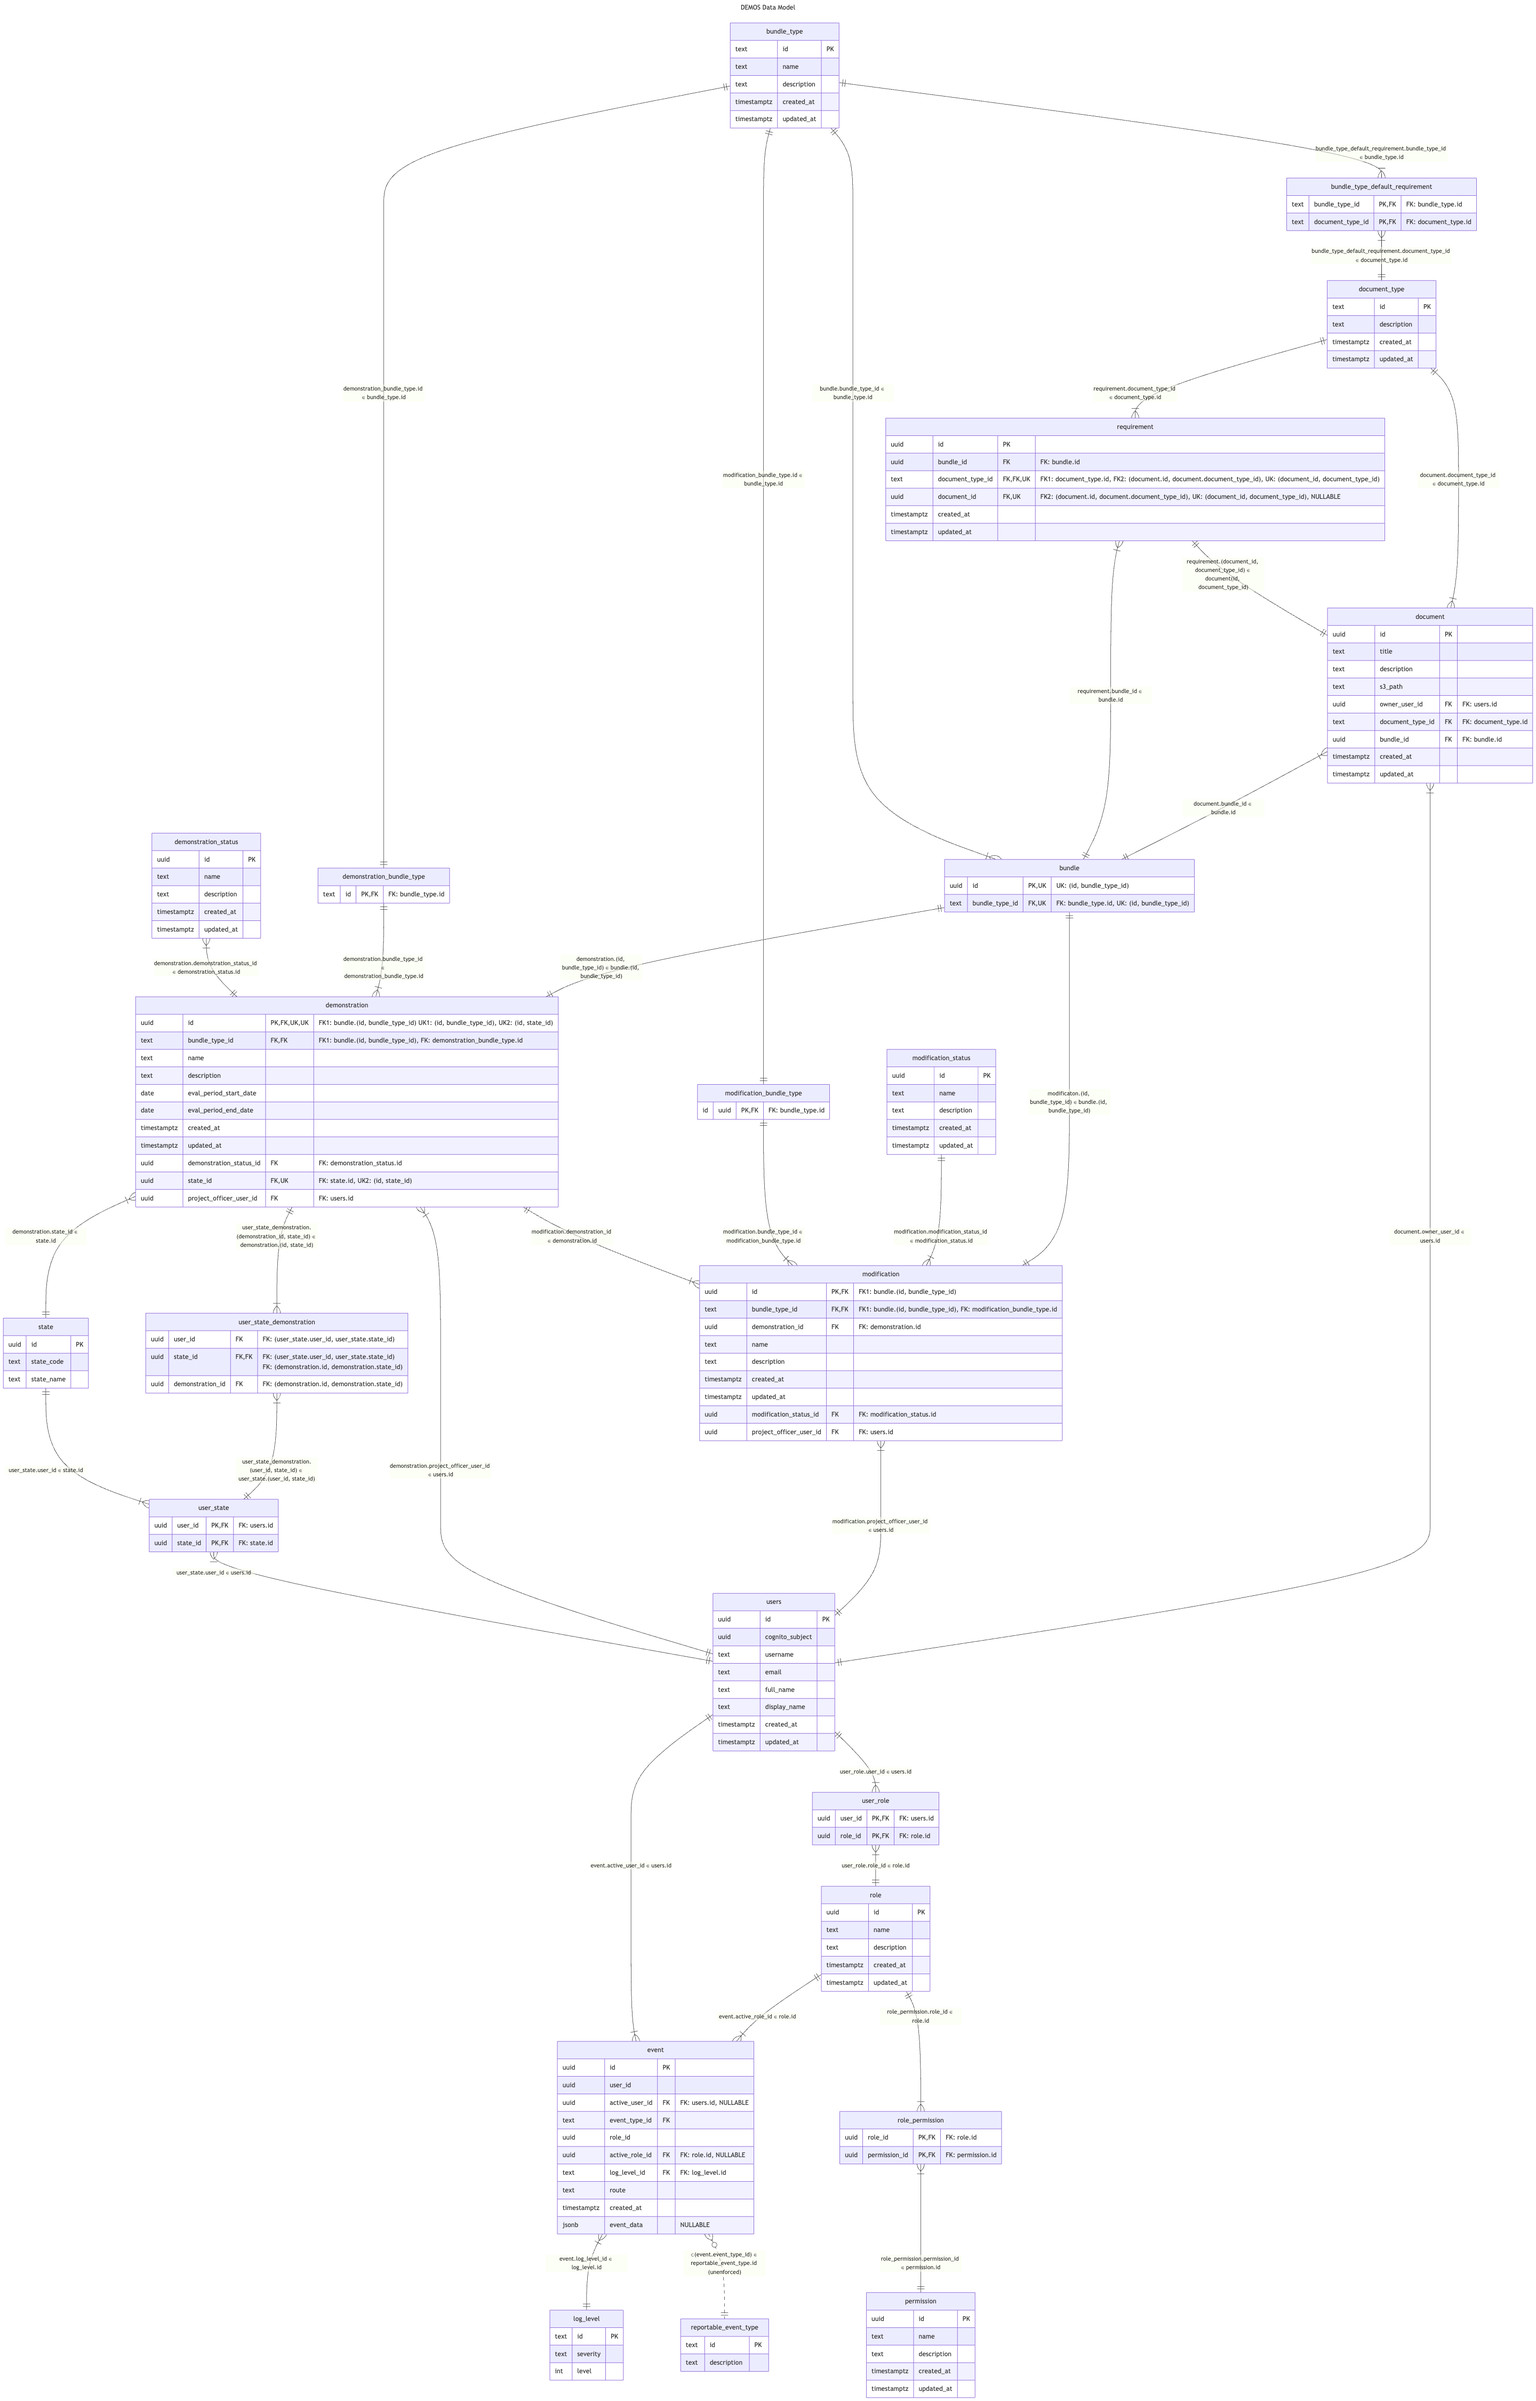
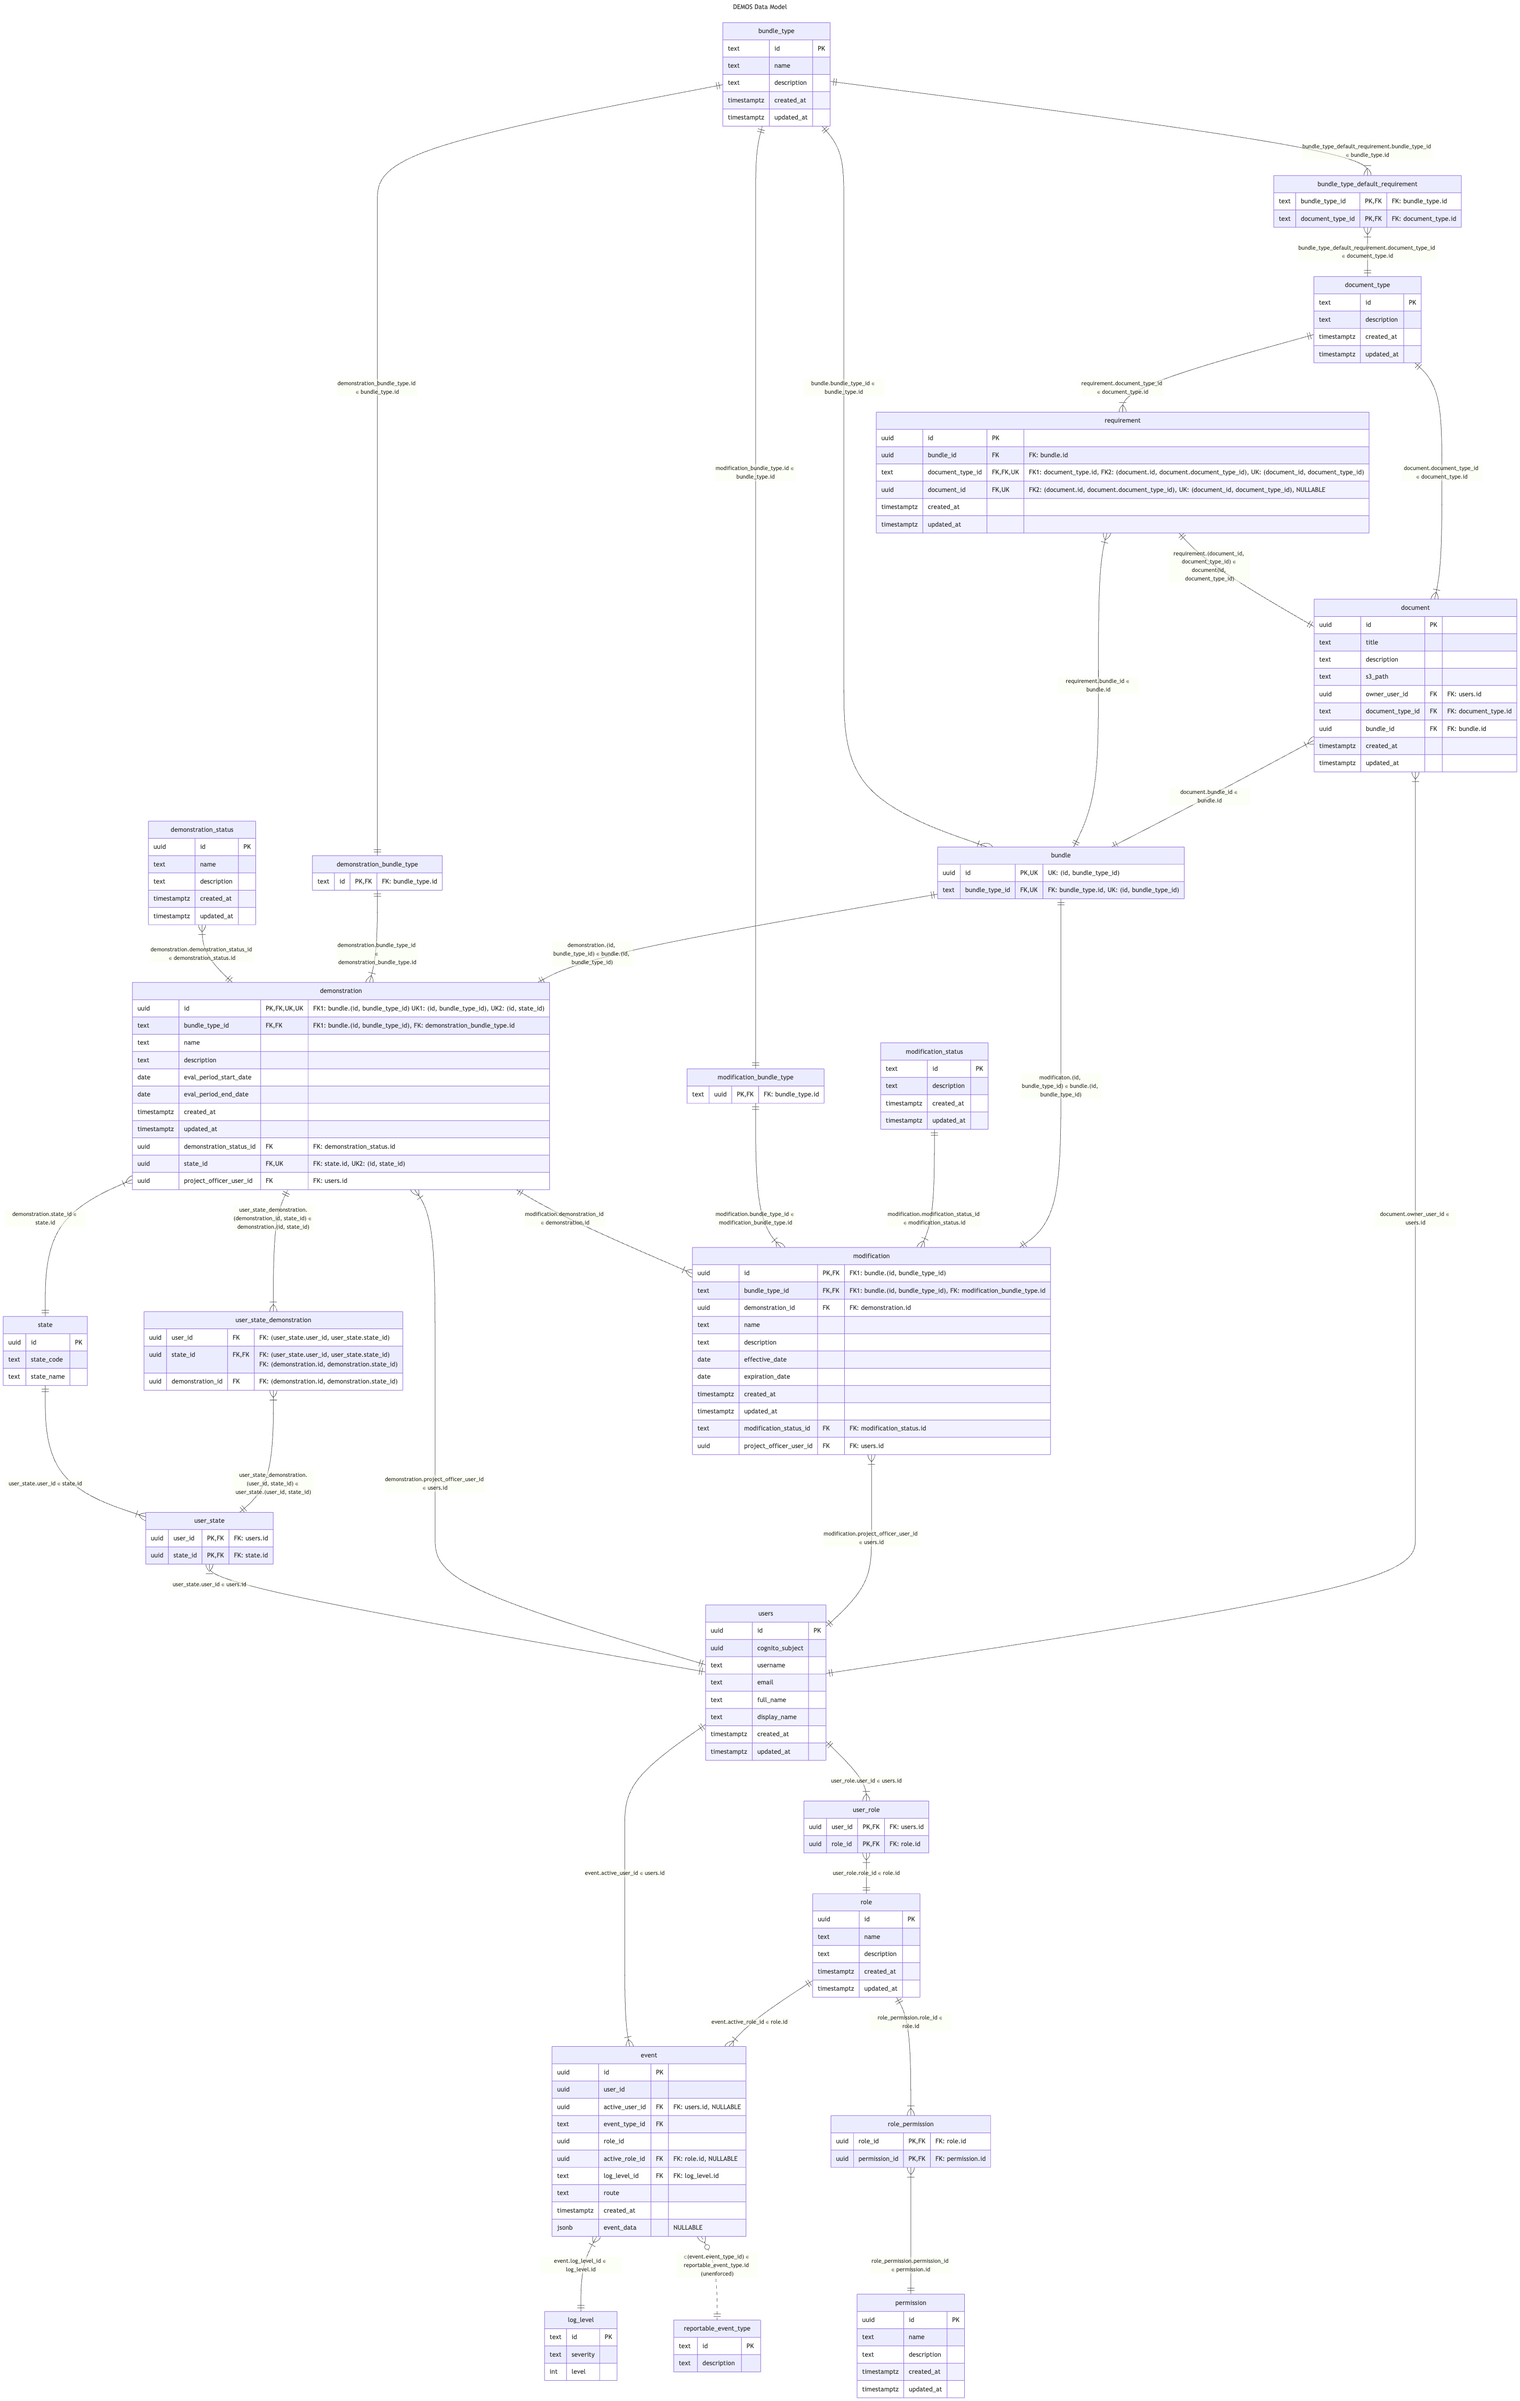
Initial commit to add the modification table and bundle type items. No resolvers or anything yet; this is just the database structure.

diff --git a/data/utilities/scripts/history_trigger_generator.py b/data/utilities/scripts/history_trigger_generator.py
@@ -17,6 +17,8 @@ TBL_FOLDERS = [
     "demonstrationStatus",
     "document",
     "documentType",
+    "modification",
+    "modificationStatus",
     "permission",
     "role",
     "state",
